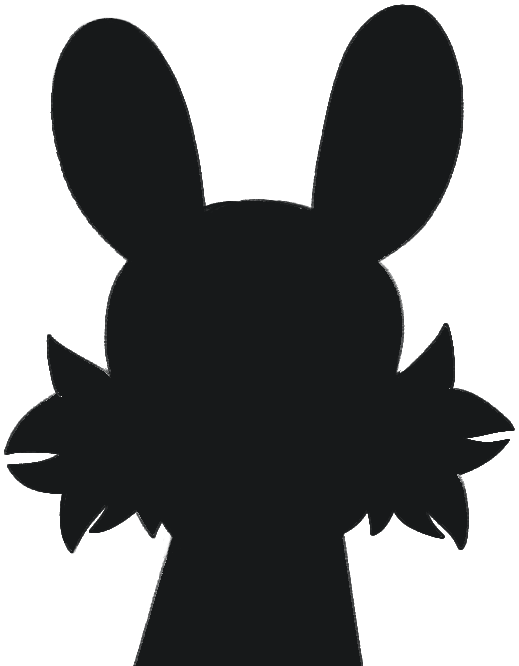
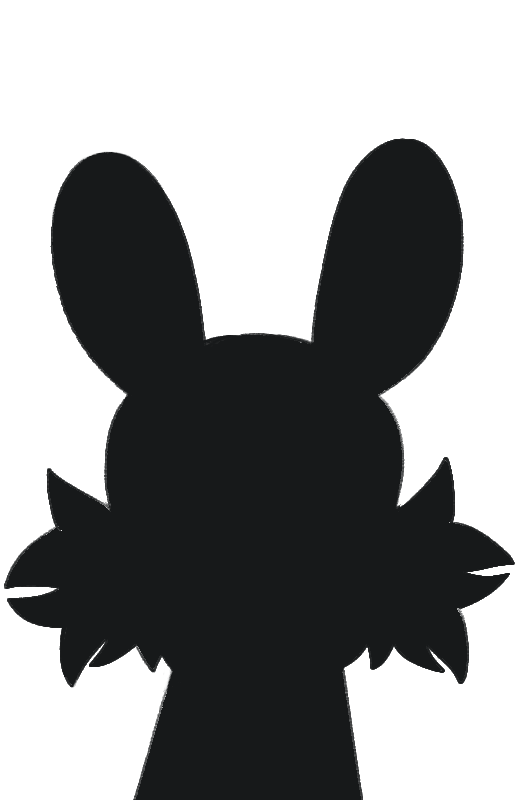
center figures in navmenu gallery link

diff --git a/components/NavMenu.tsx b/components/NavMenu.tsx
@@ -281,8 +281,22 @@ const NavMenu = () => {
                 <img ref={featArtRef} src={artwork?.url} style={{ pointerEvents: "none" }} className={`nonsel landing-tile-img`} />
               </div>
 
-              <img src="/images/kaninfigure.png" className="absolute bottom-0 -left-6 h-[30%] scale-x-[-1]" />
-              <img src="/images/mierfigure.png" className="absolute bottom-0 -right-6 h-[30%]" />
+              <div className="absolute bottom-0 w-full h-[50%] xl:h-[40%] grid grid-cols-2">
+                <div className="relative overflow-hidden">
+                  <img
+                    src="/images/kaninfigure.png"
+                    className="absolute right-2 h-full w-auto max-w-none scale-x-[-1]"
+                  />
+                </div>
+
+                <div className="relative overflow-hidden">
+                  <img
+                    src="/images/mierfigure.png"
+                    className="absolute left-2 h-full w-auto max-w-none"
+                  />
+                </div>
+              </div>
+              {/* <img src="/images/mierfigure.png" className="absolute bottom-0 -right-6 h-[30%]" /> */}
 
               <Label activeLink={activeLink} link="gallery" title="GALLERY" desc="gaze upon my art!" />
             </div>
